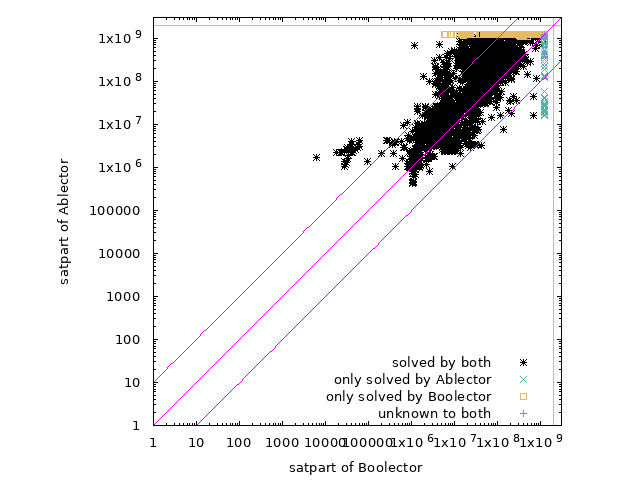
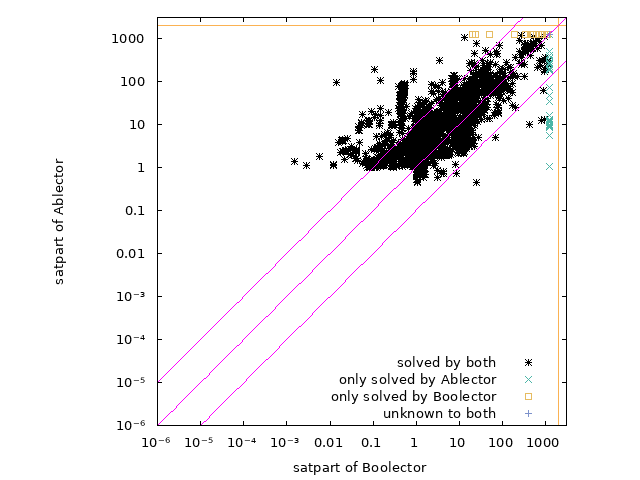
Improved plots

diff --git a/sections/chapters/evaluation.tex b/sections/chapters/evaluation.tex
@@ -1,6 +1,5 @@
 \chapter{Evaluation}
 \label{ch:evaluation}
-\todo{change legends from microseconds to seconds!}
 In the following Sections, the solving time with (\textit{Ablector}) and without (\textit{Boolector}) abstraction is compared.
 For details on the experimental setup as well as measures taken to secure the reproducibility of the results see Appendix \ref{sec:appendix:reproducibility}.
 
@@ -95,15 +94,15 @@ Here we see that Ablector, using the abstractions presented above, is able to so
 
 \begin{figure}[]
     \centering
-        \includegraphics[width=0.7\textwidth]{plots/unsat/Boolector-vs-Ablector-satpart.png}
-    \caption{\texttt{satpart} of Boolector vs \texttt{satpart} of Ablector in $\mu$s for unsatisfiable instances}
+        \includegraphics[width=0.9\textwidth]{plots/unsat/Boolector-vs-Ablector-satpart.png}
+    \caption{\texttt{satpart} of Boolector vs \texttt{satpart} of Ablector in seconds for unsatisfiable instances}
     \label{fig:evaluation:unsat:scatter}
 \end{figure}
 
 \begin{figure}[]
     \centering
-        \includegraphics[width=0.7\textwidth]{plots/unsat/Boolector-vs-Ablector-satpart-big.png}
-    \caption{\texttt{satpart} of Boolector vs \texttt{satpart} of Ablector in $\mu$s for unsatisfiable instances with satpart larger $1s$ in either dimension}
+        \includegraphics[width=0.9\textwidth]{plots/unsat/Boolector-vs-Ablector-satpart-big.png}
+    \caption{\texttt{satpart} of Boolector vs \texttt{satpart} of Ablector in seconds for unsatisfiable instances with satpart larger $1s$ in either dimension}
     \label{fig:evaluation:unsat:scatter-big}
 \end{figure}
 For any appearance of the \texttt{bvmul} and \texttt{bvsdiv} function within an instance we furthermore tracked the final abstraction level. Abstraction level 0 corresponds to the simple cases, level 1 corresponds to the msd based intervals, level 2 corresponds to the relations between functions and level 3 corresponds to the interval-wise full multiplication/division. If abstraction level 3 was reached for some instance, we further track the number of intervals added. This is of interest as it gives an estimate on the necessity of each refinement step: For example, if a refinement level would never appear as the final refinement step for an unsatisfiable instance, it is very unlikely that this abstraction is of much use. However looking at Figure \ref{fig:evaluation:unsat:level}, we see that the final abstraction levels are somewhat distributed across the various abstraction steps and that all abstractions therefore help in solving certain instances.
@@ -153,8 +152,8 @@ While bounding the running time of each refinement round by an upper limit could
 
 \begin{figure}[]
     \centering
-        \includegraphics[width=0.7\textwidth]{plots/sat/Boolector-vs-Ablector-satpart.png}
-    \caption{\texttt{satpart} of Boolector vs \texttt{satpart} of Ablector in $\mu$s for satisfiable instances}
+        \includegraphics[width=0.9\textwidth]{plots/sat/Boolector-vs-Ablector-satpart.png}
+    \caption{\texttt{satpart} of Boolector vs \texttt{satpart} of Ablector in seconds for satisfiable instances}
     \label{fig:evaluation:sat:scatter}
 \end{figure}
 
